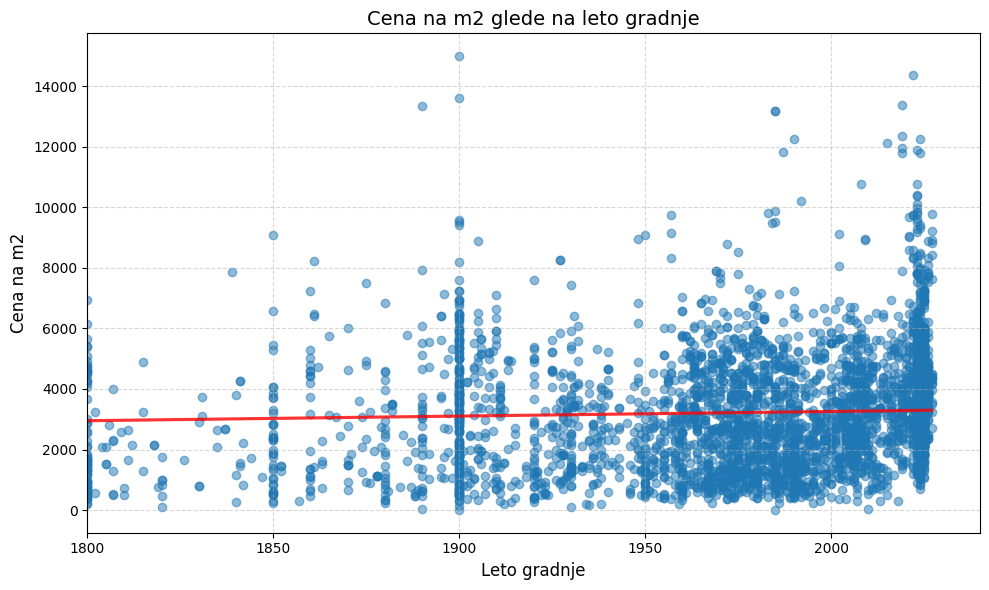
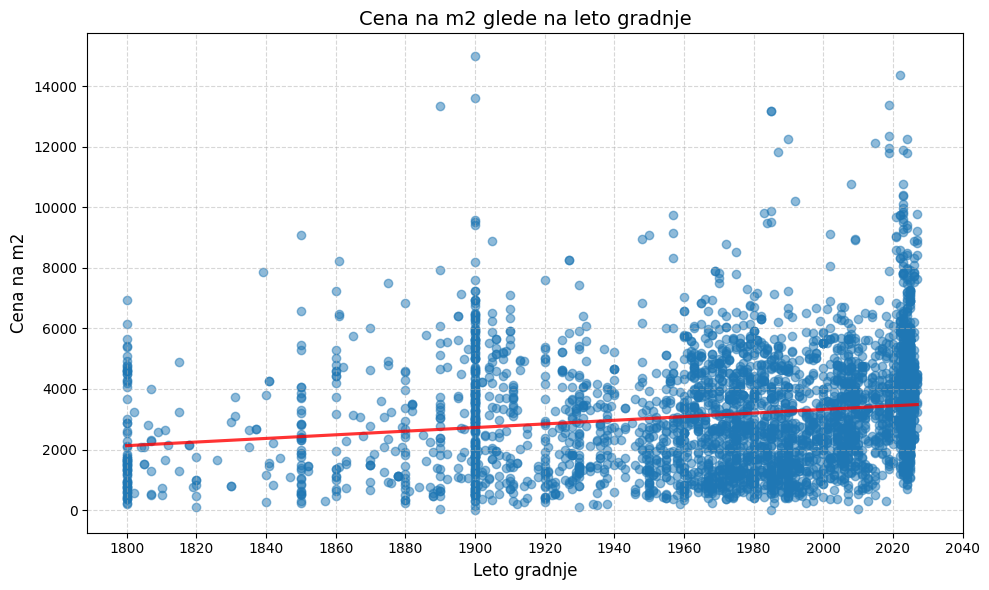
updated leto gradnje vs cena

diff --git a/VMESNO.md b/VMESNO.md
@@ -66,7 +66,7 @@ Da smo preverili, ali starost gradnje vpliva na ceno, smo narisali scatter plot 
 
 <img src="slike/cena_leto.png" width="700" />
 
-Vidimo, da starost gradnje ne korelira s ceno. To nam pove tudi nizek Pearsonov koeficient ($0,04$). Stare hiše so namreč pogosto adaptirane, zaradi česar jim vrednost ne pada.
+Vidimo, da ima starost gradnje nizko stopnjo korelacije s ceno. To nam pove tudi nizek Pearsonov koeficient (0,17). Stare hiše so namreč pogosto adaptirane, zaradi česar jim vrednost ne pada. Je pa povprečna cena na kvadratni meter nepremičnin zgrajenih po letu 2020 kar za 23% višja od povprečne cene ostalih nepremičnin.
 
 Zanimivo je videti, da so novogradnje običajno bolj energetsko učinkovite, ampak kljub temu njihova povprečna cena ni bistveno večja od povprečne cene ostalih nepremičnin. Iz tega sledi tudi to, da energetska učinkovitost in cena nimata velike povezave.
 
